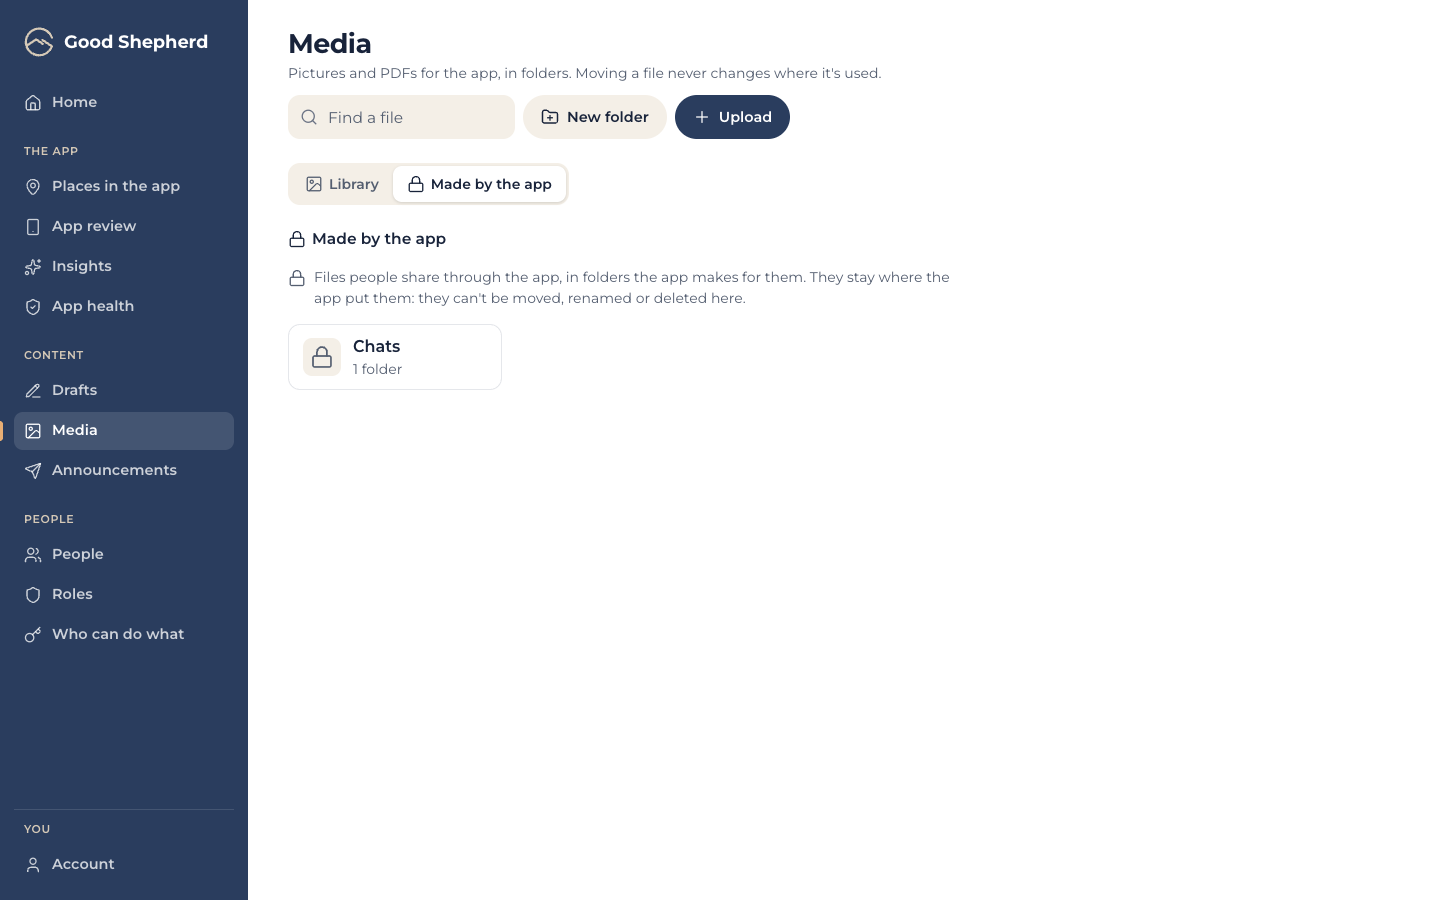
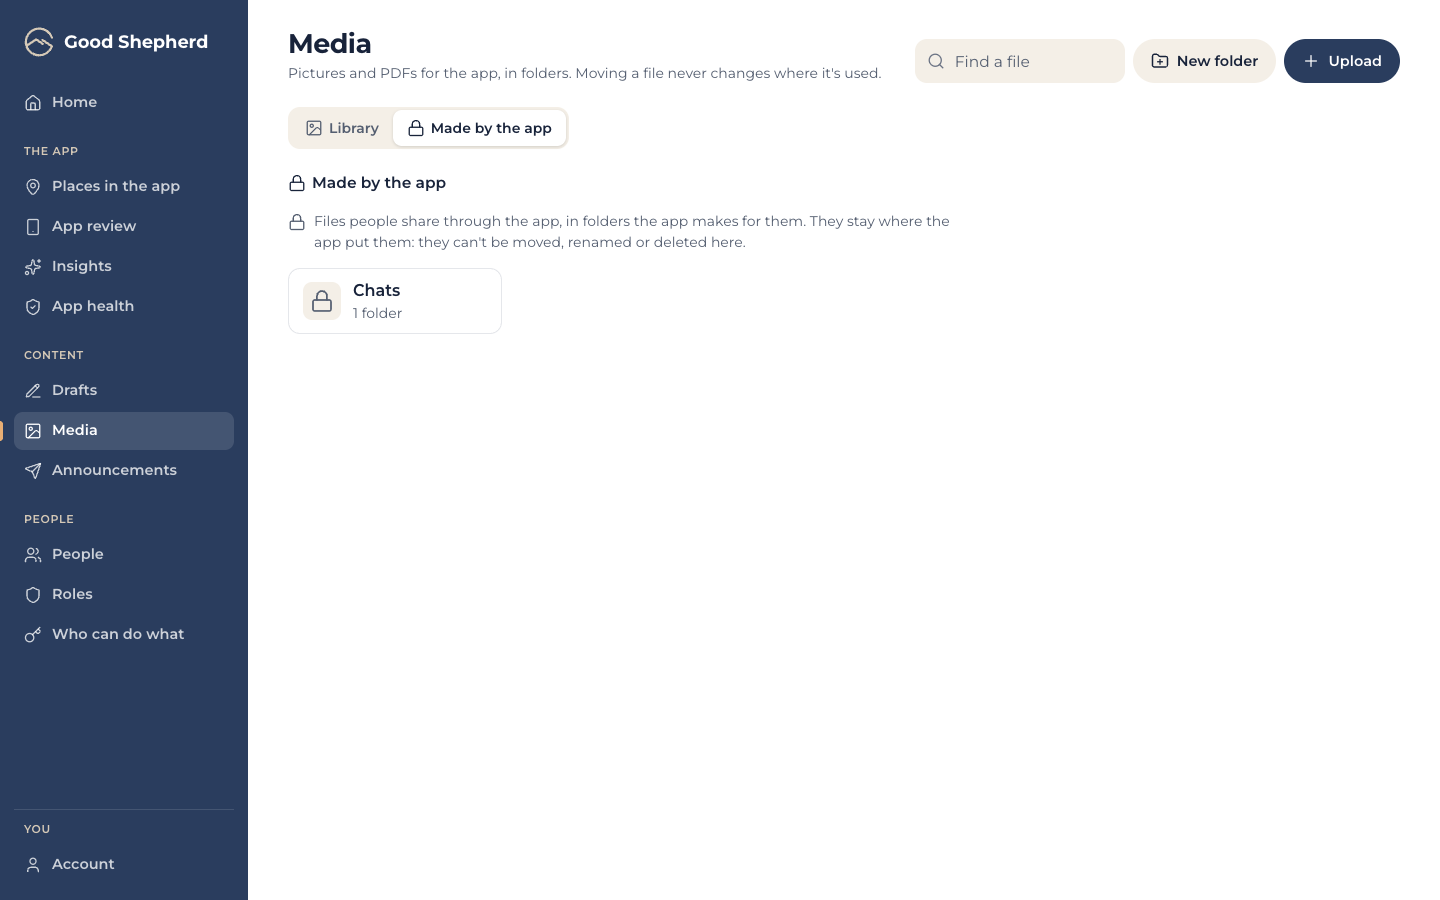
Media folders, finish review fixes: the shelf and filter bar spans above the detail pane so choosing a file never moves the grid; a folder with only folders says so instead of 'empty'; Delete folder… in the danger tone and ellipses on the folder actions; the Move sheet starts with nothing chosen; se
Claude-Session: https://claude.ai/code/session_01KqANXgj2Qx7njurrSTsBxX

diff --git a/src/Hosts/GSBC.ChurchApp.Hosts.Admin/wwwroot/css/admin.css b/src/Hosts/GSBC.ChurchApp.Hosts.Admin/wwwroot/css/admin.css
@@ -238,9 +238,15 @@ code, .patterns { font-family: ui-monospace, "SF Mono", Menlo, monospace; font-s
 .media-choice__where { margin: 0; color: var(--ink-2); font-weight: 600; }
 .media-choice .breadcrumbs { margin: -4px 0 -6px -8px; }
 
-@media (min-width: 901px) { .title-band__actions:has(.media-search) { flex-wrap: nowrap; } }
-.title-band__actions .media-search { flex: 0 1 260px; min-width: 200px; }
+@media (min-width: 901px) {
+    .title-band:has(.media-search) { flex-wrap: nowrap; }
+    .title-band:has(.media-search) .title-band__text { flex: 1 1 auto; }
+    .title-band__actions:has(.media-search) { flex: none; flex-wrap: nowrap; }
+}
+.title-band__actions .media-search { flex: 0 1 210px; min-width: 180px; }
 .media-library { display: grid; gap: 16px; min-width: 0; }
+.media-library__bar--top { margin-bottom: 16px; }
+.media-library__only-folders { margin: 4px 0 0; color: var(--ink-2); font-size: var(--text-caption); }
 .media-library__bar { display: flex; flex-wrap: wrap; align-items: center; justify-content: space-between; gap: 12px 20px; }
 .media-library__bar .segmented, .media-library__tools .segmented { grid-auto-columns: auto; width: max-content; }
 .media-library__bar .segmented button, .media-library__tools .segmented button { padding: 0 14px; }
